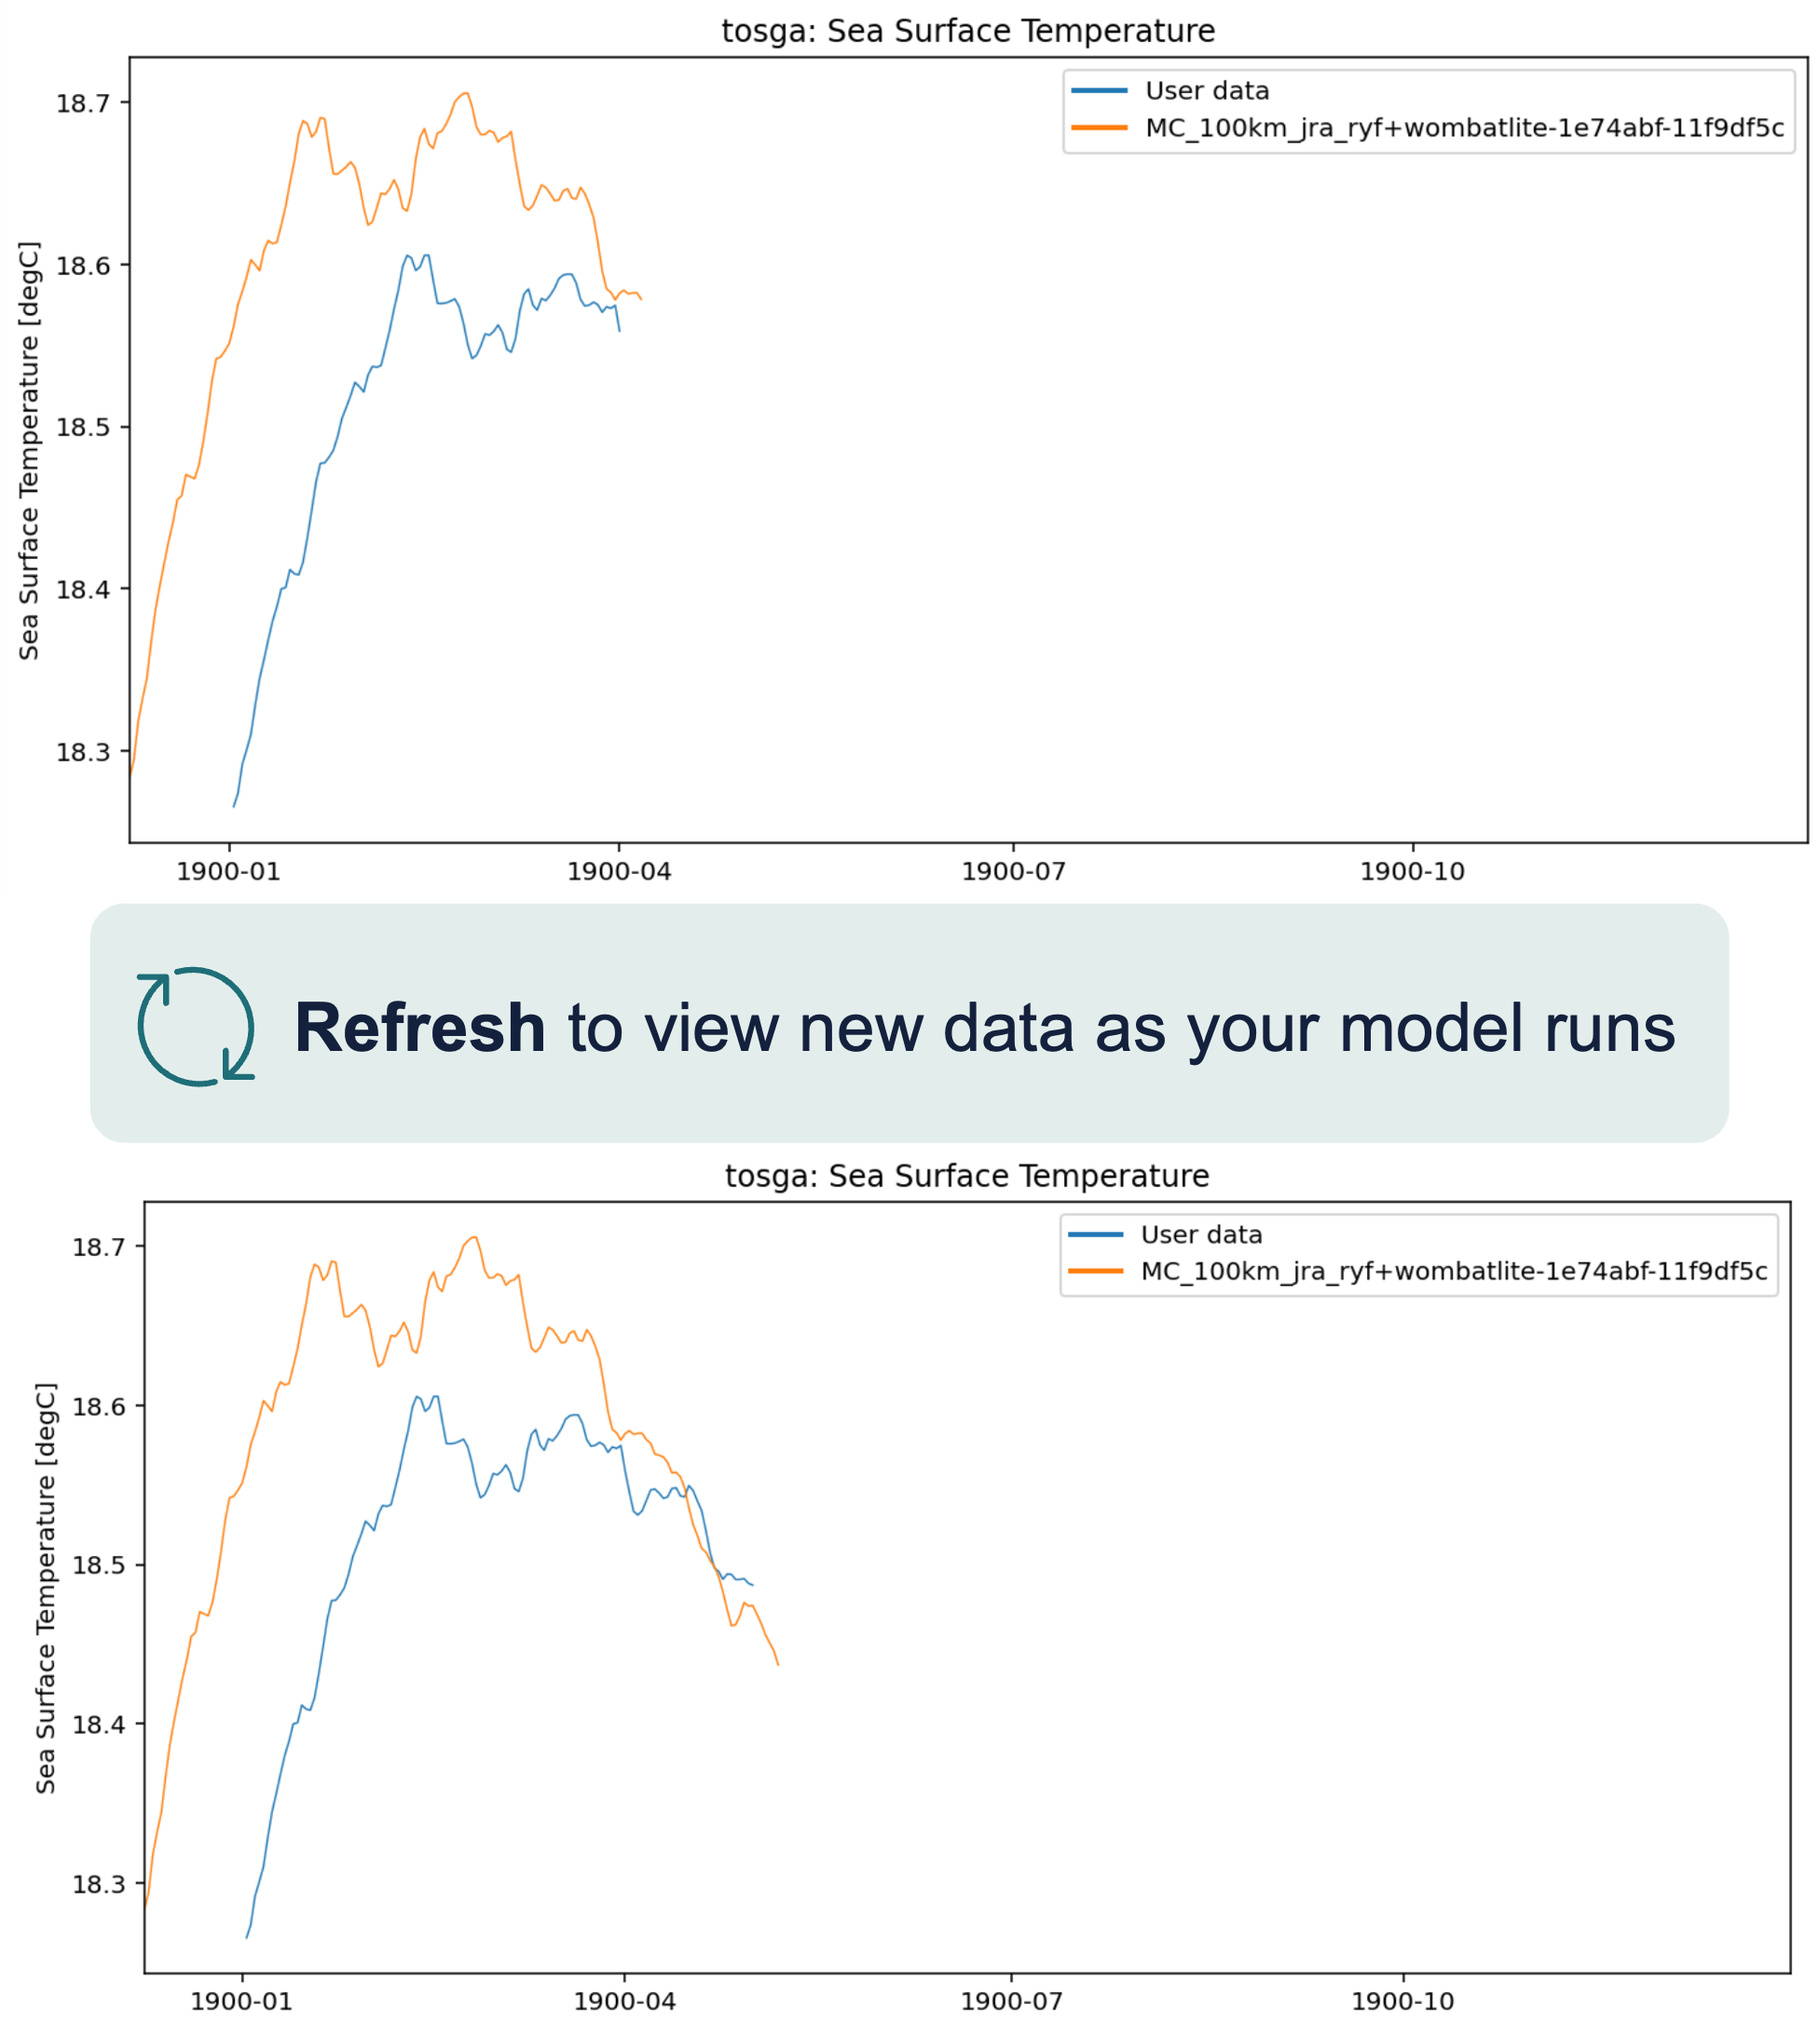
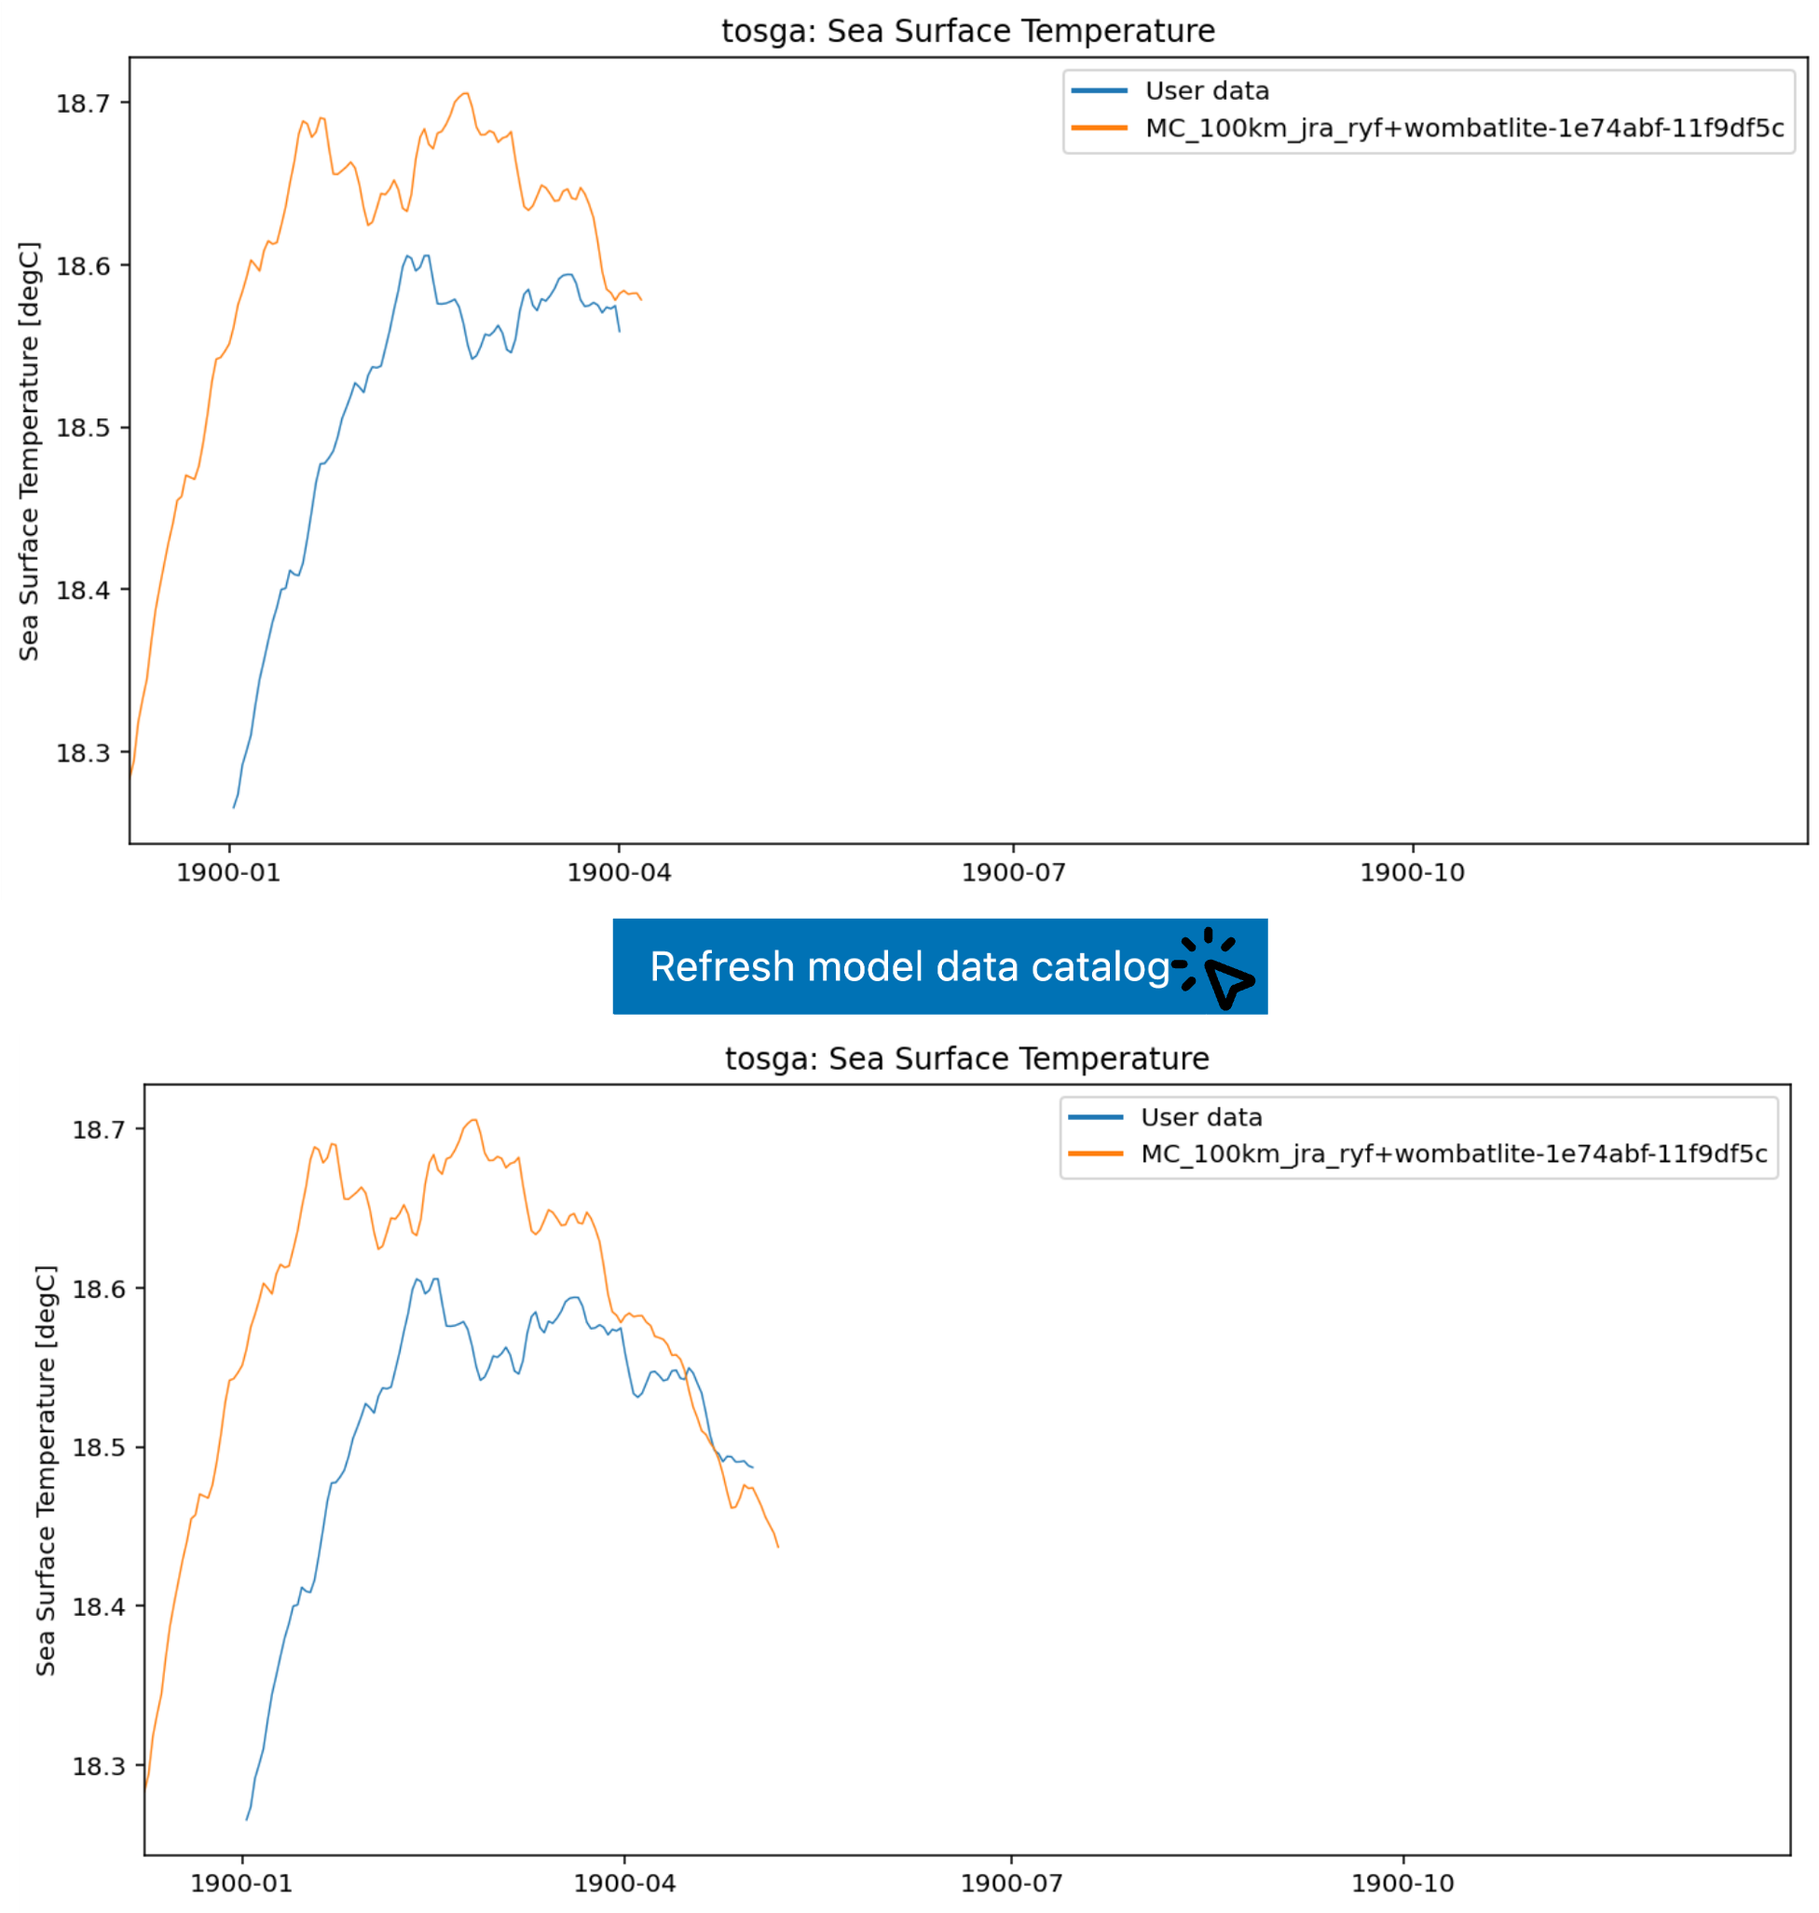
address changes suggested by Felicity

diff --git a/docs/model_evaluation/evaluation_on_gadi/model_live_diagnostics.md b/docs/model_evaluation/evaluation_on_gadi/model_live_diagnostics.md
@@ -4,7 +4,7 @@
 
 _Model Live Diagnostics_ (MLD) is a tool for the ACCESS modelling community to monitor, visualise and evaluate ACCESS model runs on _Gadi_ while they run. 
 
-It supports ACCESS-CM2, ACCESS-CM3, ACCESS-OM2, ACCESS-OM3, ACCESS-ESM1.5, ACCESS-ESM1.6, ACCESS-AM3 and MOM6 output.
+It supports [ACCESS-CM2](/models/run_a_model/run_access-cm2), ACCESS-CM3, [ACCESS-OM2](/models/run_a_model/run_access-om2), [ACCESS-OM3](/models/run_a_model/run_access-om3), [ACCESS-ESM1.5](/models/run_a_model/run_access-esm1p5), [ACCESS-ESM1.6](/models/run_a_model/run_access-esm1p6), [ACCESS-AM3](/models/run_a_model/run_access-am3) and MOM6 output.
 
 ## What can MLD do?
 
@@ -15,7 +15,10 @@ A session opens an interactive interface in your notebook with four sections:
 - **Overlay user and reference models**: compare your run with as many reference runs as you like, and plot the difference between them.
 - **Run analysis recipes**: run ready-made analyses on your run, or add your own.
 
-![Heatmaps of a user run and several reference runs, compared in Model Live Diagnostics.](/assets/model_evaluation/live_diagnostics/mld_hivedocs_aligned.png){: style="width: 75%;" }
+As your run writes new output, click **Refresh model data catalog** to add it to your plots without restarting the session:
+
+
+![A sea surface temperature line plot before and after clicking Refresh model data catalog, with the newest output added.](/assets/model_evaluation/live_diagnostics/mld_hivedocs_aligned.png){: style="width: 75%;" }
 
 ## Getting started
 

diff --git a/abbreviations.md b/abbreviations.md
@@ -16,3 +16,4 @@
 *[PBS]: Portable Batch System
 *[VDI]: Virtual Desktop Interface
 *[NIWA]: New Zealand National Institute of Water and Atmospheric Research
+*[MLD]: Model Live Diagnostics
